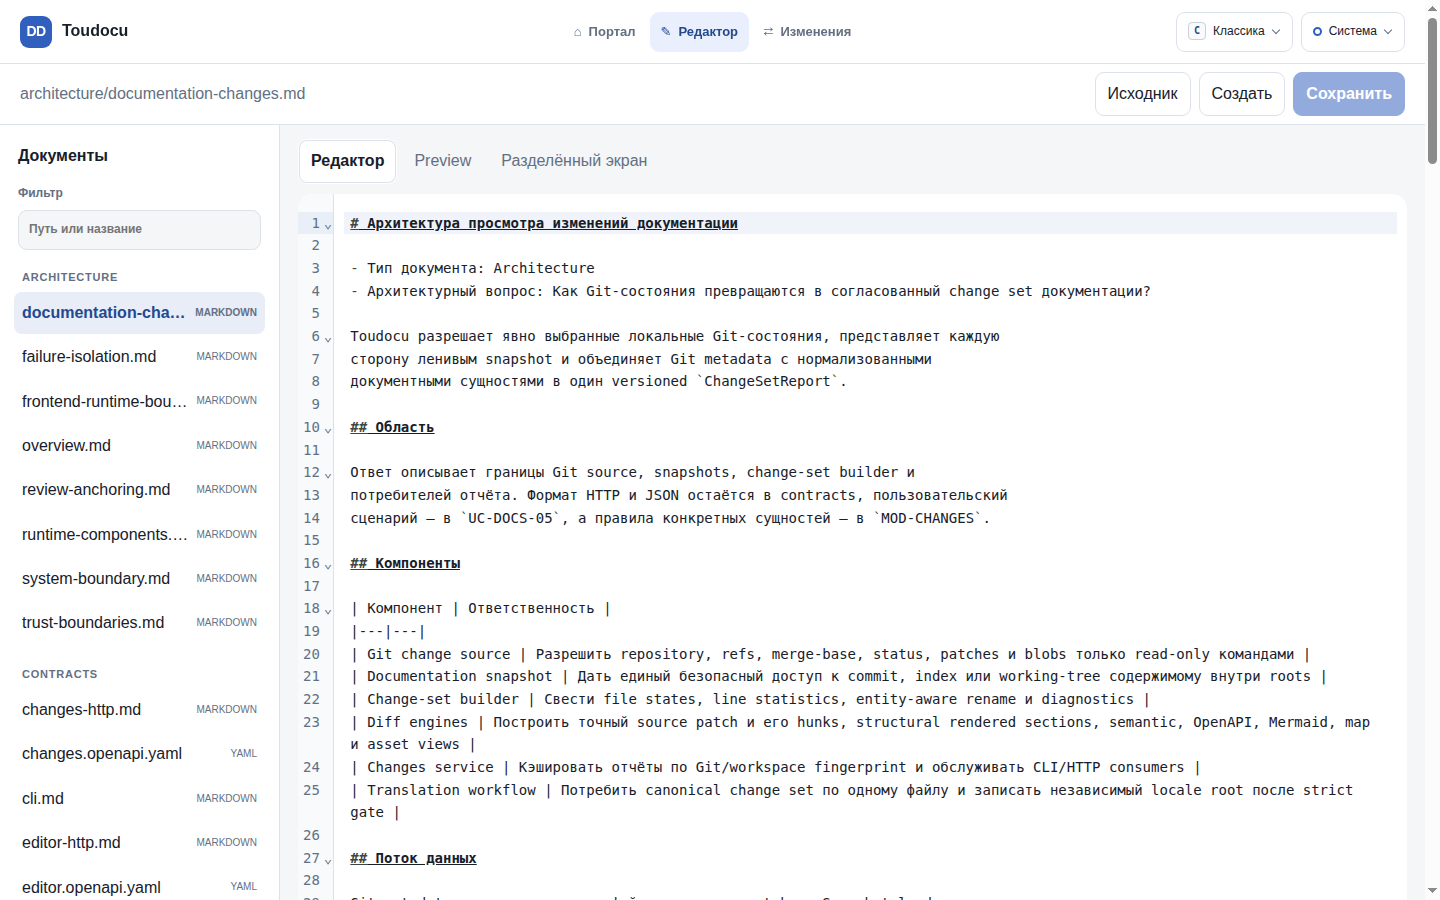
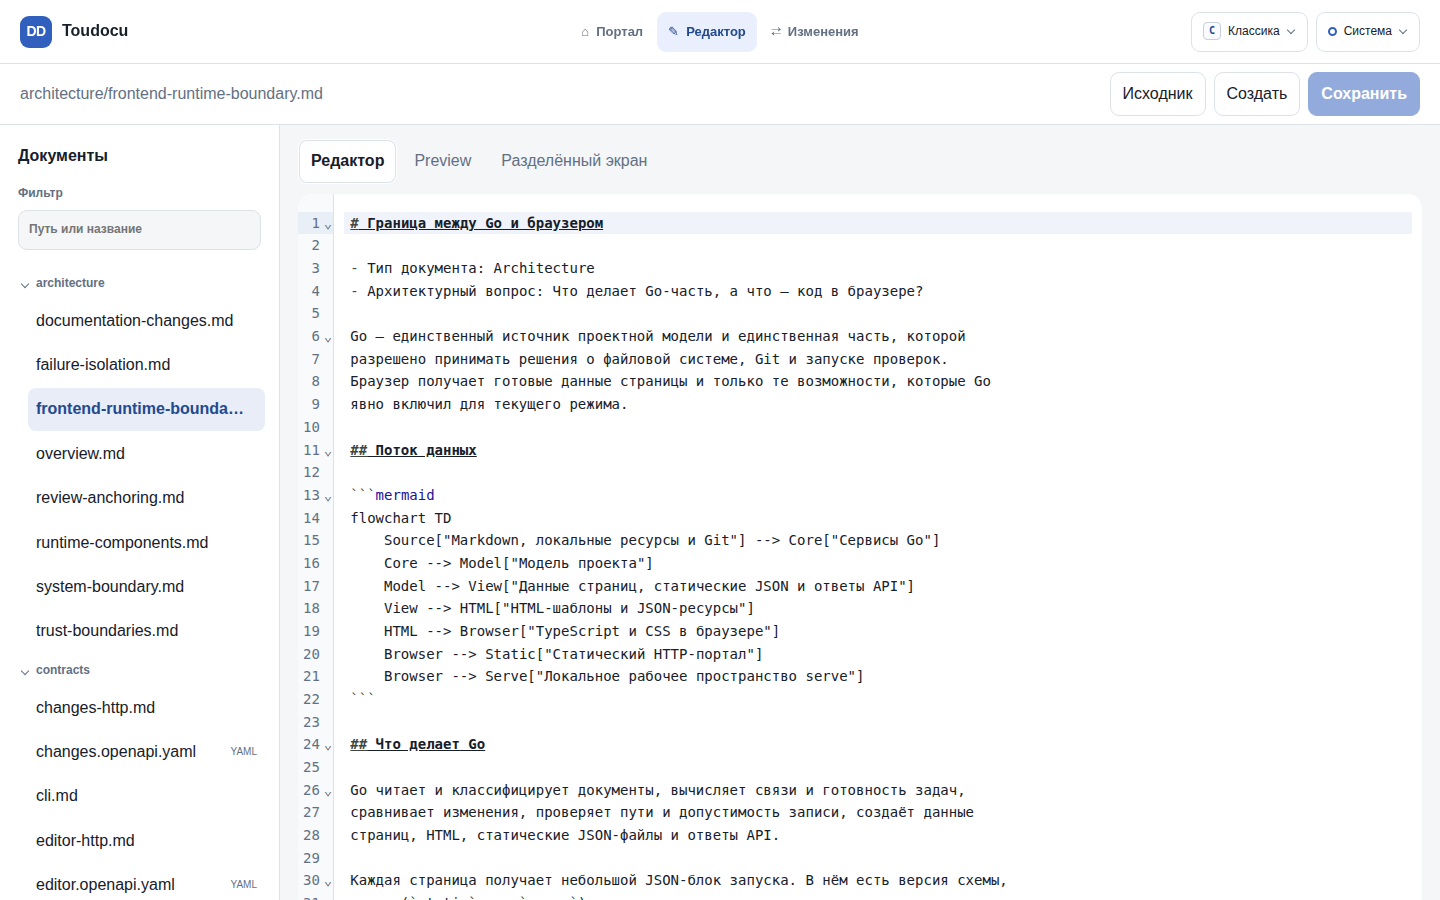
feat(editor): enhance file tree structure and improve editor functionality
- Removed unused message in Russian localization for the editor.
- Updated portal interaction logic to use a selection area instead of document contents.
- Introduced a new function to build a hierarchical file tree structure, accommodating nested directories and repeated file names.
- Enhanced the editor's file rendering logic to support collapsible directories.
- Improved CSS styles for better visual representation of the file tree and its elements.
- Added tests to verify the correct construction of the file tree from a list of files.

diff --git a/web/src/features/editor/index.ts b/web/src/features/editor/index.ts
@@ -1,7 +1,7 @@
 import { registerMessages, text } from "../../core/locale";
 import { editorMessages } from "../../core/messages.ru";
 import { closeDialogOnEscape } from "../../components";
-import { diagnosticsForEditor, editorResponseIsCurrent } from "./state";
+import { buildFileTree, diagnosticsForEditor, editorResponseIsCurrent } from "./state";
 registerMessages(editorMessages);
 (() => {
     'use strict';
@@ -10,7 +10,7 @@ registerMessages(editorMessages);
     const $: any = (selector: any, root: any = document) => root.querySelector(selector);
     const state: any = {
         files: [], templates: [], revision: '', etag: '', current: null,
-        baseline: '', dirty: false, external: null, view: 'editor', editor: null,
+        baseline: '', dirty: false, external: null, view: 'editor', editor: null, collapsedDirectories: new Set(),
     };
     let validationGeneration = 0;
     let previewGeneration = 0;
@@ -101,36 +101,48 @@ registerMessages(editorMessages);
         const query: any = elements.filter.value.trim().toLocaleLowerCase('ru');
         const filtered: any = state.files.filter((file: any) => `${file.path} ${file.title || ''}`.toLocaleLowerCase('ru').includes(query));
         elements.treeList.replaceChildren();
-        const groups: any = new Map();
-        filtered.forEach((file: any) => {
-            const parts: any = file.path.split('/');
-            const group: any = parts.length > 1 ? parts[0] : text("features.editor.index.003");
-            if (!groups.has(group))
-                groups.set(group, []);
-            groups.get(group).push(file);
-        });
-        groups.forEach((files: any, group: any) => {
-            const section: any = document.createElement('section');
-            const heading: any = document.createElement('h2');
-            heading.textContent = group;
+        function renderEntries(entries: any) {
             const list: any = document.createElement('ul');
-            files.forEach((file: any) => {
+            entries.forEach((entry: any) => {
                 const item: any = document.createElement('li');
+                if (entry.kind === 'directory') {
+                    const details: any = document.createElement('details');
+                    details.dataset.directoryPath = entry.path;
+                    details.open = Boolean(query) || !state.collapsedDirectories.has(entry.path);
+                    const summary: any = document.createElement('summary');
+                    summary.textContent = entry.name;
+                    details.append(summary, renderEntries(entry.children));
+                    details.addEventListener('toggle', () => {
+                        if (query)
+                            return;
+                        if (details.open)
+                            state.collapsedDirectories.delete(entry.path);
+                        else
+                            state.collapsedDirectories.add(entry.path);
+                    });
+                    item.append(details);
+                    list.append(item);
+                    return;
+                }
+                const file: any = entry.file;
                 const button: any = document.createElement('button');
                 button.type = 'button';
                 button.dataset.filePath = file.path;
                 button.className = file.path === state.current?.path ? 'is-active' : '';
                 const name: any = document.createElement('span');
-                name.textContent = file.path.split('/').slice(1).join('/') || file.path;
-                const meta: any = document.createElement('small');
-                meta.textContent = file.language;
-                button.append(name, meta);
+                name.textContent = entry.name;
+                button.append(name);
+                if (file.language !== 'markdown') {
+                    const meta: any = document.createElement('small');
+                    meta.textContent = file.language;
+                    button.append(meta);
+                }
                 item.append(button);
                 list.append(item);
             });
-            section.append(heading, list);
-            elements.treeList.append(section);
-        });
+            return list;
+        }
+        elements.treeList.append(renderEntries(buildFileTree(filtered)));
     }
     function showConflict(external: any) {
         state.external = external;

diff --git a/web/src/styles/editor.css b/web/src/styles/editor.css
@@ -41,10 +41,15 @@ button:disabled { cursor: not-allowed; opacity: .52; }
 .tree-heading { display: flex; align-items: center; justify-content: space-between; margin: 0 4px 14px; }
 .tree-search { display: grid; gap: 6px; margin: 0 4px 18px; color: var(--editor-muted); font-size: 12px; font-weight: 700; }
 .tree-search input { width: 100%; min-height: 40px; border: 1px solid var(--editor-border); border-radius: 9px; background: var(--editor-bg); color: var(--editor-text); padding: 8px 10px; }
-.editor-tree nav section + section { margin-top: 20px; }
-.editor-tree nav h2 { margin: 0 8px 6px; color: var(--editor-muted); font-size: 11px; letter-spacing: .07em; text-transform: uppercase; }
 .editor-tree ul { list-style: none; margin: 0; padding: 0; }
+.editor-tree details > ul { padding-inline-start: 14px; }
 .editor-tree li + li { margin-top: 2px; }
+.editor-tree summary { position: relative; display: flex; min-height: 32px; align-items: center; gap: 8px; border-radius: 8px; color: var(--editor-muted); padding: 6px 8px; cursor: pointer; font-size: 12px; font-weight: 700; list-style: none; }
+.editor-tree summary::-webkit-details-marker { display: none; }
+.editor-tree summary::before { width: 6px; height: 6px; flex: none; border-right: 1.5px solid currentColor; border-bottom: 1.5px solid currentColor; content: ""; transform: rotate(-45deg); transition: transform 140ms ease; }
+.editor-tree details[open] > summary::before { transform: rotate(45deg); }
+.editor-tree summary:hover { background: var(--editor-soft); }
+.editor-tree summary:focus-visible { outline: 3px solid color-mix(in srgb, var(--editor-accent) 38%, transparent); outline-offset: 2px; }
 .editor-tree [data-file-path] { display: grid; grid-template-columns: minmax(0, 1fr) auto; align-items: center; gap: 8px; width: 100%; border: 0; border-radius: 8px; background: transparent; color: inherit; padding: 8px; text-align: left; cursor: pointer; }
 .editor-tree [data-file-path] span { overflow: hidden; text-overflow: ellipsis; white-space: nowrap; }
 .editor-tree [data-file-path] small { color: var(--editor-muted); font-size: 10px; text-transform: uppercase; }
@@ -125,5 +130,5 @@ html[data-theme="dark"] {
   .editor-tree { inset-block-start: 168px; }
 }
 @media (prefers-reduced-motion: reduce) {
-  .editor-tree, .editor-toast { transition: none; }
+  .editor-tree, .editor-tree summary::before, .editor-toast { transition: none; }
 }

diff --git a/web/src/core/portal.ts b/web/src/core/portal.ts
@@ -481,8 +481,8 @@ registerMessages(portalMessages);
         const page: any = pageContract();
         const review: any = page?.runtime === 'serve' && page.capabilities?.review ? page.endpoints?.review : '';
         const contextButton: any = $('[data-copy-document-context]');
-        const contents: any = $$('.doc-content');
-        if (!review || !contextButton || !contents.length)
+        const selectionArea: any = contextButton?.closest('[data-dashboard-overview], .page-content');
+        if (!review || !contextButton || !selectionArea)
             return;
         const title: any = contextButton.dataset.documentContextTitle || '';
         const path: any = contextButton.dataset.documentContextPath || '';
@@ -520,7 +520,7 @@ registerMessages(portalMessages);
             toast.hidden = false;
             toastTimer = window.setTimeout(() => { toast.hidden = true; }, showLink ? 8000 : 2200);
         };
-        const selectionContent: any = (selection: any) => contents.find((content: any) => content.contains(selection.anchorNode) && content.contains(selection.focusNode));
+        const selectionContent: any = (selection: any) => selectionArea.contains(selection.anchorNode) && selectionArea.contains(selection.focusNode);
         const showMenu: any = () => {
             const selection: any = window.getSelection();
             if (!selection || selection.isCollapsed || !selection.rangeCount || !selection.toString().trim() || !selectionContent(selection))
@@ -616,10 +616,8 @@ registerMessages(portalMessages);
                 submit.textContent = text("core.portal.047");
             }
         }, { signal });
-        contents.forEach((content: any) => {
-            content.addEventListener('pointerup', showMenu, { signal });
-            content.addEventListener('keyup', (event: any) => { if (event.key === 'Shift' || !event.shiftKey) showMenu(); }, { signal });
-        });
+        selectionArea.addEventListener('pointerup', showMenu, { signal });
+        selectionArea.addEventListener('keyup', (event: any) => { if (event.key === 'Shift' || !event.shiftKey) showMenu(); }, { signal });
         document.addEventListener('pointerdown', (event: any) => { if (!menu.contains(event.target)) hideMenu(); }, { signal });
         document.addEventListener('scroll', hideMenu, { capture: true, signal });
         window.addEventListener('resize', hideMenu, { signal });

diff --git a/web/tests/browser/runtime.spec.ts b/web/tests/browser/runtime.spec.ts
@@ -583,16 +583,25 @@ test("Portal and Changes review hand local discussions to the agent CLI without 
     await waitForHTTP(origin);
     await page.context().grantPermissions(["clipboard-read", "clipboard-write"], { origin });
     await page.goto(`${origin}/architecture/overview.html`);
-    const selectPortalText = (value: string) => page.getByText(value, { exact: true }).first().evaluate((element) => {
+    const selectPortalElement = (element: any) => element.evaluate((target: HTMLElement) => {
       const range = document.createRange();
-      range.selectNodeContents(element);
+      range.selectNodeContents(target);
       const selection = window.getSelection();
       selection?.removeAllRanges();
       selection?.addRange(range);
-      element.dispatchEvent(new PointerEvent("pointerup", { bubbles: true }));
+      target.dispatchEvent(new PointerEvent("pointerup", { bubbles: true }));
     });
-    await selectPortalText("Updated.");
+    const selectPortalText = (value: string) => selectPortalElement(page.getByText(value, { exact: true }).first());
     const portalSelectionMenu = page.locator(".review-selection-menu");
+    await selectPortalElement(page.locator(".page-header h1"));
+    await expect(portalSelectionMenu).toBeVisible();
+    await portalSelectionMenu.getByRole("button", { name: "Копировать текст" }).click();
+    await expect.poll(() => page.evaluate(() => navigator.clipboard.readText())).toBe("Architecture");
+    await selectPortalElement(page.locator(".metadata-grid dd").filter({ hasText: "Architecture Overview" }).first());
+    await expect(portalSelectionMenu).toBeVisible();
+    await portalSelectionMenu.getByRole("button", { name: "Копировать текст" }).click();
+    await expect.poll(() => page.evaluate(() => navigator.clipboard.readText())).toBe("Architecture Overview");
+    await selectPortalText("Updated.");
     await expect(portalSelectionMenu).toBeVisible();
     await expect(portalSelectionMenu.getByRole("button")).toHaveCount(3);
     await portalSelectionMenu.getByRole("button", { name: "Копировать текст" }).click();

diff --git a/web/src/features/editor/state.ts b/web/src/features/editor/state.ts
@@ -11,6 +11,33 @@ export function editorResponseIsCurrent(
     return requestPath === currentPath && requestGeneration === currentGeneration;
 }
 
+export type EditorFileTreeEntry =
+    | { kind: "file"; name: string; file: any }
+    | { kind: "directory"; name: string; path: string; children: EditorFileTreeEntry[] };
+
+export function buildFileTree(files: any[]): EditorFileTreeEntry[] {
+    const root: EditorFileTreeEntry[] = [];
+    const directories = new Map<string, Extract<EditorFileTreeEntry, { kind: "directory" }>>();
+    for (const file of files) {
+        const parts = file.path.split('/');
+        const name = parts.pop();
+        let path = '';
+        let entries = root;
+        for (const part of parts) {
+            path = path ? `${path}/${part}` : part;
+            let directory = directories.get(path);
+            if (!directory) {
+                directory = { kind: "directory", name: part, path, children: [] };
+                directories.set(path, directory);
+                entries.push(directory);
+            }
+            entries = directory.children;
+        }
+        entries.push({ kind: "file", name, file });
+    }
+    return root;
+}
+
 const utf8Encoder = new TextEncoder();
 
 export function utf16OffsetForUTF8Column(line: string, column: number): number {

diff --git a/web/src/core/messages.ru.ts b/web/src/core/messages.ru.ts
@@ -132,7 +132,6 @@ export const apiDocsMessages: Record<string, string> = {
 export const editorMessages: Record<string, string> = {
   "features.editor.index.001": "Редактор недоступен в этом runtime.",
   "features.editor.index.002": "{0}Редактор — Toudocu",
-  "features.editor.index.003": "Корень",
   "features.editor.index.004": "Файл удалён с диска. Текст сохранён в редакторе: скачайте его или восстановите файл снаружи.",
   "features.editor.index.005": "Ваш текст сохранён в редакторе. Сравните версии или подтвердите перезапись.",
   "features.editor.index.006": "Файл обновлён внешним процессом.",

diff --git a/docs/screens/SC-SITE-EDITOR.md b/docs/screens/SC-SITE-EDITOR.md
@@ -5,7 +5,7 @@
 - Модуль: MOD-SITE
 - Статус: Реализован
 - Превью: `../assets/screens/site-editor.png`
-- Последнее обновление: 2026-08-10
+- Последнее обновление: 2026-08-11
 
 Редактор исходной документации доступен по адресу `/_toudocu/editor/` только в
 режиме `serve`. Здесь можно выбрать или создать разрешённый файл, изменить его,
@@ -16,6 +16,13 @@
 Верхняя панель ведёт в портал, редактор и раздел «Изменения» и позволяет выбрать
 оформление. Ниже находятся текущий путь, список файлов, действия создания и
 сохранения и ссылка на исходник.
+
+Список файлов отображается как дерево каталогов любой глубины. Все каталоги
+сначала раскрыты; пользователь может свернуть ветвь, и редактор сохраняет этот
+выбор при обновлении списка в пределах открытой страницы. Фильтр ищет по полному
+пути и заголовку, показывает только подходящие файлы и раскрывает ведущие к ним
+ветви. Внутри каталога строка показывает только имя файла. Метка формата остаётся
+у YAML- и JSON-файлов, а у Markdown-файлов не выводится.
 
 Выбранные тема (`classic`, `paper` или `terminal`) и цветовая схема (`system`,
 `light` или `dark`) применяются сразу и сохраняются для других рабочих экранов.

diff --git a/docs/screens/SC-SITE-DOCUMENT.md b/docs/screens/SC-SITE-DOCUMENT.md
@@ -12,10 +12,12 @@
 
 ## Обсуждение документации
 
-В основном `serve` после выделения текста появляется контекстное меню. Оно
-позволяет скопировать сам текст, скопировать название документа, путь и
-выделенный фрагмент либо добавить вопрос в локальное обсуждение. Форма вопроса
-показывает выбранный фрагмент; пользователь вводит только сам вопрос.
+В основном `serve` контекстное меню появляется после выделения текста в любой
+смысловой части документа: в заголовке, свойствах, основном содержании,
+вычисленных связях или списке связанных документов. Оно позволяет скопировать
+сам текст, скопировать название документа, путь и выделенный фрагмент либо
+добавить вопрос в локальное обсуждение. Форма вопроса показывает выбранный
+фрагмент; пользователь вводит только сам вопрос.
 
 Если выделение однозначно находится в исходном Markdown, обсуждение получает
 точный диапазон. Иначе оно привязывается ко всему документу, а фрагмент
